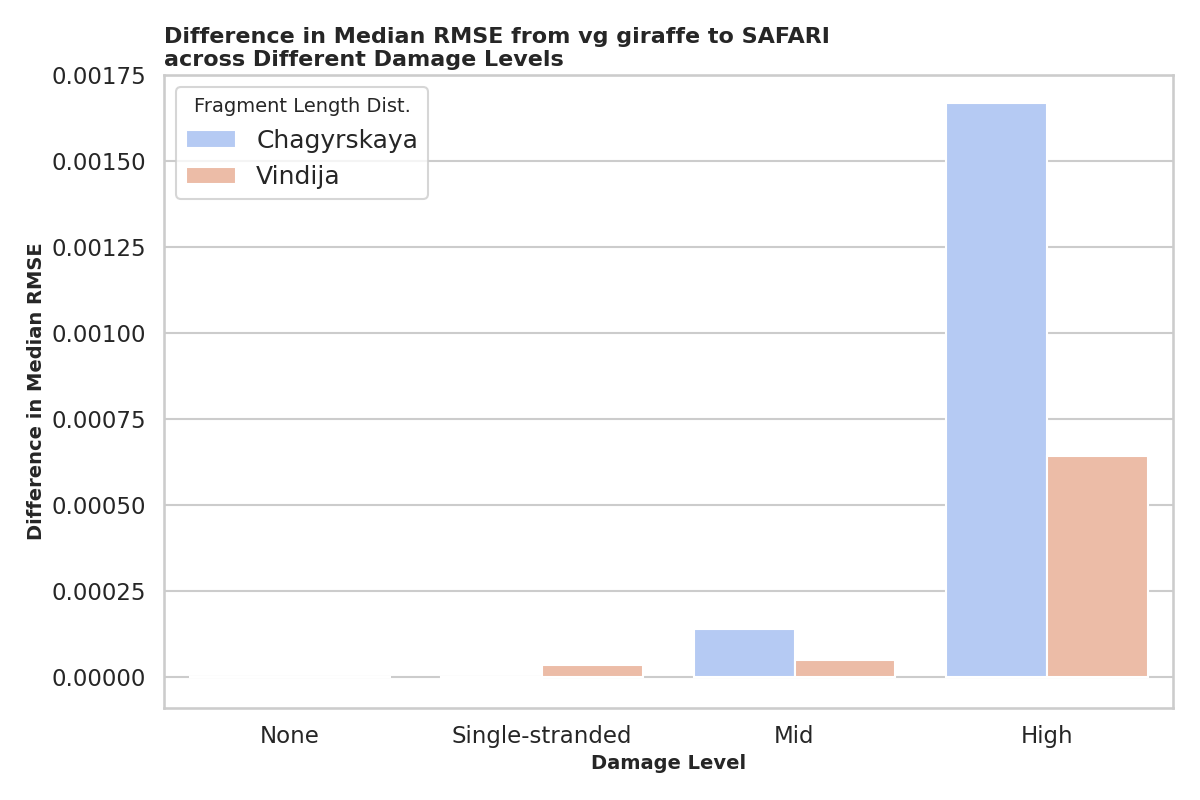
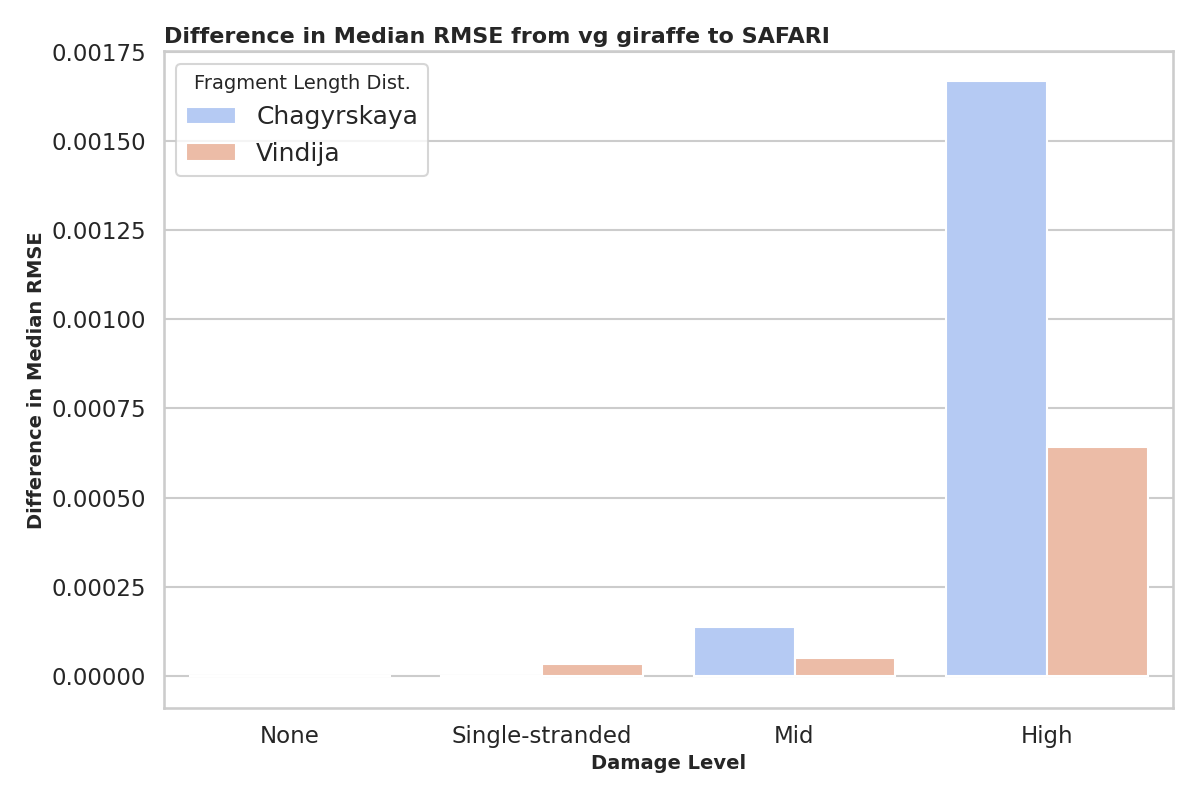
Update

diff --git a/linear_experiment/human_mito/stat_results/plot_RMSE.py b/linear_experiment/human_mito/stat_results/plot_RMSE.py
@@ -41,7 +41,7 @@ def generate_percentage_decrease_plots(input_file_path):
     # Create the bar plot
     plt.figure(figsize=(12, 8))
     sns.barplot(x='damage_level', y='value', hue='fragment_len_dist', data=melted_data, palette="coolwarm")
-    plt.title('Difference in Median RMSE from vg giraffe to SAFARI\nacross Different Damage Levels', fontsize=16, fontweight='bold', loc='left')
+    plt.title('Difference in Median RMSE from vg giraffe to SAFARI', fontsize=16, fontweight='bold', loc='left')
     plt.xlabel('Damage Level', fontsize=14, fontweight='bold')
     plt.ylabel('Difference in Median RMSE', fontsize=14, fontweight='bold')
     plt.legend(title='Fragment Length Dist.', fontsize='medium', title_fontsize='14')
